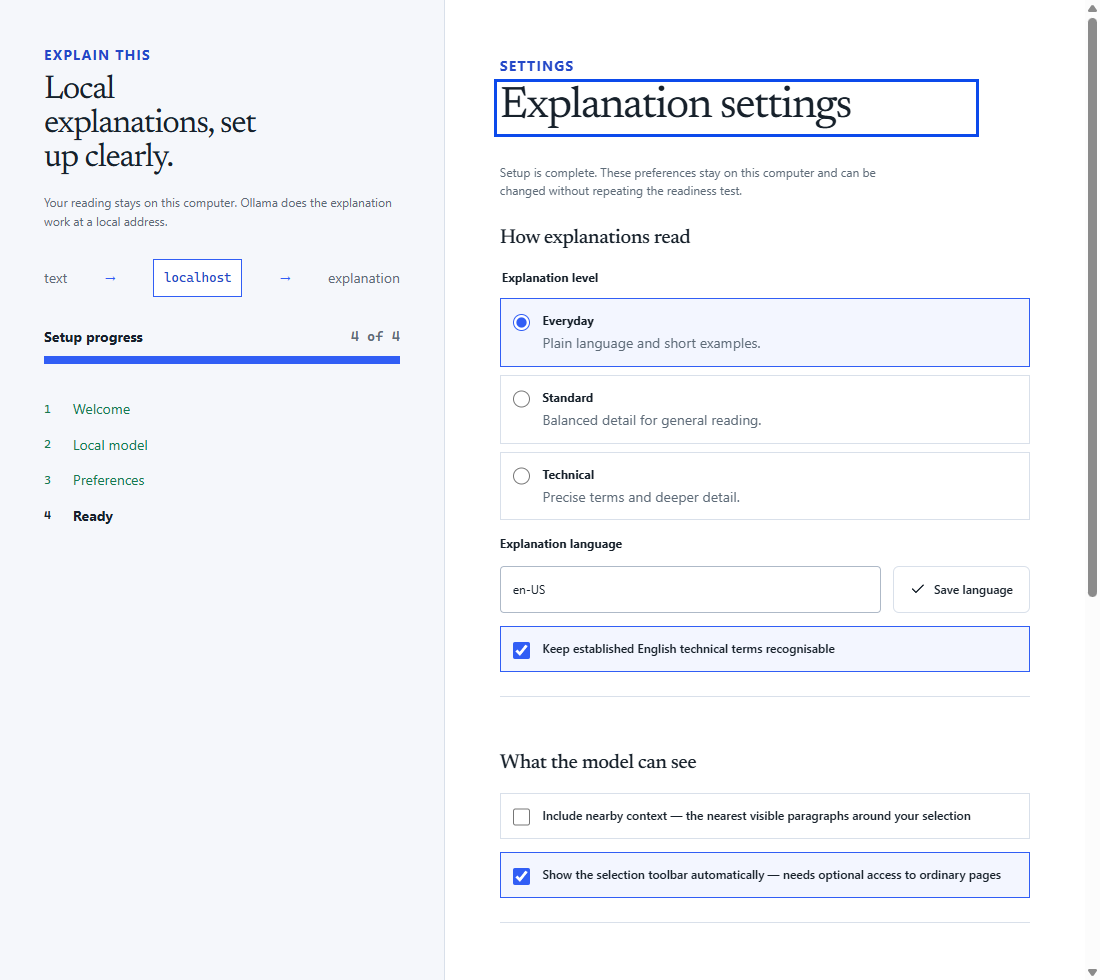
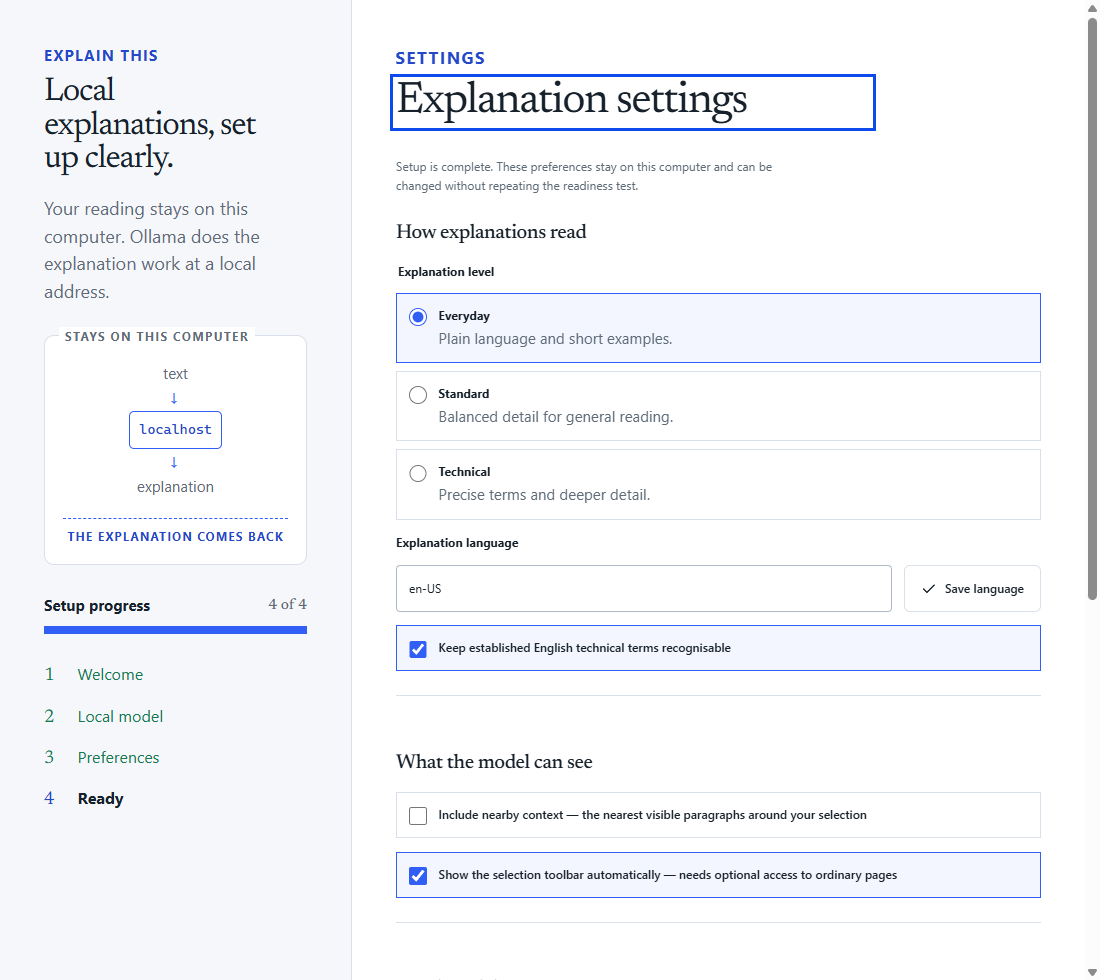
feat: rebalance the options layout and redraw the local loop
The rail took roughly 40% of the window when it held twelve items. With four
milestones it was mostly empty space while the content column stayed narrow. The
rail is now capped at 22rem and the work surface takes the rest, with the step
frame widened to 46rem and its prose held to a 62-character measure so the longer
column does not produce unreadable line lengths.

Supporting text moves up a step: the shared small size goes from 14px to 15px,
the rail intro becomes an 18px lede under the display heading, the milestone list
returns to 16px, and each step's explanatory paragraph sits at 17px.

The local-data diagram was three words separated by arrows. It now draws the
thing that actually matters - the boundary. A labelled card reads "stays on this
computer", the flow runs down it as a signal path, and a dashed return line
closes the circuit with "the explanation comes back". Nothing crosses the border,
which is the whole promise of the product.

It runs vertically rather than across. The first attempt kept the horizontal
five-column grid, but in the narrower rail the 1fr spacer columns collapsed and
clipped the arrows out of existence entirely.

Numerals are now set in the display serif with lining tabular figures, so the
milestone numbers read as chapter numbers and stay aligned in their column, and
the current milestone's number picks up the accent colour.

The screen-reader description improved with the diagram: it now states that the
[…]

diff --git a/src/entrypoints/options/options.css b/src/entrypoints/options/options.css
@@ -66,8 +66,9 @@
   --body: "Inter", system-ui, "Segoe UI", Roboto, sans-serif;
   /* Type scale ported from personal_app: 16px body, 14px controls, 12px labels. */
   --text-body: 1rem;
-  --text-sm: 0.875rem;
+  --text-sm: 0.9375rem;
   --text-label: 0.75rem;
+  --text-lede: 1.125rem;
   --control-height: 40px;
   --field-height: 44px;
   --mono: "Cascadia Mono", "SFMono-Regular", Consolas, ui-monospace, monospace;
@@ -113,7 +114,7 @@ code {
 
 .setup-shell {
   display: grid;
-  grid-template-columns: minmax(19rem, 0.82fr) minmax(32rem, 1.18fr);
+  grid-template-columns: minmax(17rem, 22rem) minmax(0, 1fr);
   min-height: 100vh;
 }
 
@@ -156,30 +157,70 @@ code {
   max-width: 34rem;
   margin: 1.1rem 0 0;
   color: var(--slate);
+  font-size: var(--text-lede);
+  line-height: 1.55;
 }
 
 .local-loop {
+  position: relative;
   display: grid;
-  grid-template-columns: auto 1fr auto 1fr auto;
-  align-items: center;
-  gap: 0.7rem;
+  justify-items: center;
+  gap: 0.3rem;
   width: 100%;
+  margin: 0;
+  padding: 1.6rem 1.1rem 1.15rem;
+  border: 1px solid var(--line);
+  border-radius: 10px;
+  background: var(--paper);
   color: var(--slate);
   font-size: var(--text-sm);
 }
 
-.local-loop span:nth-child(2),
-.local-loop span:nth-child(4) {
-  overflow: hidden;
-  color: var(--cobalt);
-  text-align: center;
+.local-loop::before {
+  content: "stays on this computer";
+  position: absolute;
+  top: -0.55rem;
+  left: 0.85rem;
+  padding: 0 0.4rem;
+  background: var(--paper);
+  color: var(--slate);
+  font-size: var(--text-label);
+  font-weight: 750;
+  letter-spacing: 0.11em;
+  text-transform: uppercase;
 }
 
-.local-loop code {
-  padding: 0.5rem 0.6rem;
+.loop-arrow {
+  color: var(--cobalt);
+  font-size: 1.05rem;
+  line-height: 1;
+  transform: rotate(90deg);
+}
+
+.loop-node {
+  white-space: nowrap;
+}
+
+.loop-host {
+  padding: 0.45rem 0.6rem;
   border: 1px solid var(--cobalt);
+  border-radius: 5px;
   color: var(--cobalt-dark);
   background: var(--paper);
+}
+
+/* The return path closes the circuit without crossing the boundary above. */
+.loop-return {
+  justify-self: stretch;
+  margin-top: 0.9rem;
+  padding-top: 0.5rem;
+  border-top: 1px dashed var(--cobalt);
+  color: var(--cobalt-dark);
+  font-size: var(--text-label);
+  font-weight: 700;
+  letter-spacing: 0.09em;
+  text-align: center;
+  text-transform: uppercase;
 }
 
 .visually-hidden {
@@ -240,11 +281,11 @@ progress::-webkit-progress-value {
 
 .setup-steps li {
   display: grid;
-  grid-template-columns: 1.8rem 1fr;
-  align-items: center;
-  min-height: 2rem;
+  grid-template-columns: 2.1rem 1fr;
+  align-items: baseline;
+  min-height: 2.35rem;
   color: var(--slate);
-  font-size: var(--text-sm);
+  font-size: 1rem;
 }
 
 .setup-steps li[data-status="current"] {
@@ -256,21 +297,39 @@ progress::-webkit-progress-value {
   color: var(--mint-ink);
 }
 
+.step-number,
+.progress-detail {
+  font-family: var(--display);
+  font-variant-numeric: lining-nums tabular-nums;
+  letter-spacing: 0;
+}
+
 .step-number {
-  font-family: var(--mono);
-  font-size: var(--text-label);
+  font-size: 1.15rem;
+  font-weight: 400;
+  line-height: 1;
+}
+
+.setup-steps li[data-status="current"] .step-number {
+  color: var(--cobalt-dark);
 }
 
 .work-surface {
   display: grid;
   min-width: 0;
-  padding: clamp(1.5rem, 5vw, 6rem);
+  padding: clamp(1.5rem, 4vw, 4.5rem);
   place-items: center;
   background: var(--paper);
 }
 
+.step-frame > p {
+  max-width: 62ch;
+  font-size: 1.0625rem;
+  line-height: 1.6;
+}
+
 .step-frame {
-  width: min(100%, 42rem);
+  width: min(100%, 46rem);
   animation: settle-in 180ms ease-out both;
 }
 
@@ -670,8 +729,7 @@ fieldset {
 
 @media (max-width: 480px) {
   .local-loop {
-    gap: 0.35rem;
-    font-size: 0.72rem;
+    gap: 0.25rem;
   }
 
   .actions,

diff --git a/src/entrypoints/options/OptionsApp.tsx b/src/entrypoints/options/OptionsApp.tsx
@@ -57,14 +57,18 @@ export function OptionsApp({ dependencies }: OptionsAppProps) {
           </p>
         </div>
 
-        <div className="local-loop" aria-label="Local data flow">
-          <span>text</span>
-          <span aria-hidden="true">→</span>
-          <code>localhost</code>
-          <span aria-hidden="true">→</span>
-          <span>explanation</span>
-        </div>
-        <p className="visually-hidden">text → localhost → explanation</p>
+        <figure className="local-loop" aria-hidden="true">
+          <span className="loop-node">text</span>
+          <span className="loop-arrow">→</span>
+          <code className="loop-host">localhost</code>
+          <span className="loop-arrow">→</span>
+          <span className="loop-node">explanation</span>
+          <span className="loop-return">the explanation comes back</span>
+        </figure>
+        <p className="visually-hidden">
+          Your selected text goes to Ollama at localhost on this computer, and the
+          explanation comes back. Nothing leaves this computer.
+        </p>
 
         <ProgressBar
           label="Setup progress"

diff --git a/src/entrypoints/options/OptionsApp.test.tsx b/src/entrypoints/options/OptionsApp.test.tsx
@@ -196,7 +196,7 @@ describe("options onboarding", () => {
     expect(
       screen.getByRole("progressbar", { name: /setup progress/i }),
     ).toHaveAttribute("max", "4");
-    expect(screen.getByText(/text → localhost → explanation/i)).toBeVisible();
+    expect(screen.getByText(/nothing leaves this computer/i)).toBeInTheDocument();
     expect(screen.getAllByRole("listitem").map((item) => item.textContent)).toEqual([
       "1Welcome",
       "2Local model",
